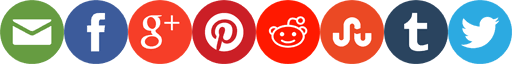
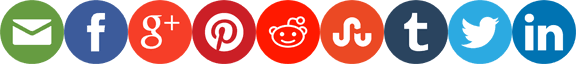
One more social link

diff --git a/index.html b/index.html
@@ -35,14 +35,14 @@
 <meta property="og:site_name" content="The Traveller Map">
 <meta property="fb:admins" content="617166358">
 
-<link rel="stylesheet" href="index.css?update=2018-09-16T13:03:46">
+<link rel="stylesheet" href="index.css?update=2018-09-21T20:20:39">
 
 <!--[if lt IE 11]><script>alert("IE10 is no longer supported.");</script><![endif]-->
 <script src="https://cdnjs.cloudflare.com/ajax/libs/handlebars.js/4.0.11/handlebars.min.js"></script>
 <script src="https://cdn.rawgit.com/inexorabletash/poly2/v2.0.1/polyfill.min.js"></script>
-<script src="map.js?update=2018-09-03T13:28:18"></script>
-<script src="index.js?update=2018-09-15T21:15:28"></script>
-<script src="world_util.js?update=2018-07-24T18:53:45"></script>
+<script src="map.js?update=2018-09-16T21:01:02"></script>
+<script src="index.js?update=2018-09-16T21:01:02"></script>
+<script src="world_util.js?update=2018-09-16T21:01:01"></script>
 
 <body class="hide-ui hide-footer ds-mini show-settings">
   <div id="mapContainer">
@@ -450,6 +450,7 @@
       <a class=share id=share-google target=_blank data-template="https://plus.google.com/share?url={{url}}">Google+</a>
       <a class=share id=share-tumblr target=_blank data-template="http://www.tumblr.com/share/link?url={{url}}&amp;title={{text}}">Tumblr</a>
       <a class=share id=share-su target=_blank data-template="http://www.stumbleupon.com/submit?url={{url}}&amp;title={{text}}">StumbleUpon</a>
+      <a class=share id=share-linkedin target=_blank data-template="https://www.linkedin.com/shareArticle?mini=true&amp;url={{url}}&amp;title={{text}}">LinkedIn</a>
       <a class=share id=share-email target=_blank data-template="mailto:?Subject={{text}}&amp;Body={{url}}">Email</a>
     </section>
 

diff --git a/index.css b/index.css
@@ -870,6 +870,7 @@ body:not(.enable-experiments) #labBtn { display: none; }
 #share-su        { background-position: -200px 0; }
 #share-tumblr    { background-position: -240px 0; }
 #share-twitter   { background-position: -280px 0; }
+#share-linkedin  { background-position: -320px 0; }
 
 /* ============================================================ */
 /* Help Tab */

diff --git a/doc/api.html b/doc/api.html
@@ -1146,6 +1146,9 @@ table#features, #features th, #features td { border: solid 1px black; }
 
         <dt>nored=1
         <dd>stops must not be restricted (TAS Red Zones)
+
+        <dt>aok=1
+        <dd>stops at anomalies/calibration points allowed
     </dl>
 
     <h4>Notes:</h4>
